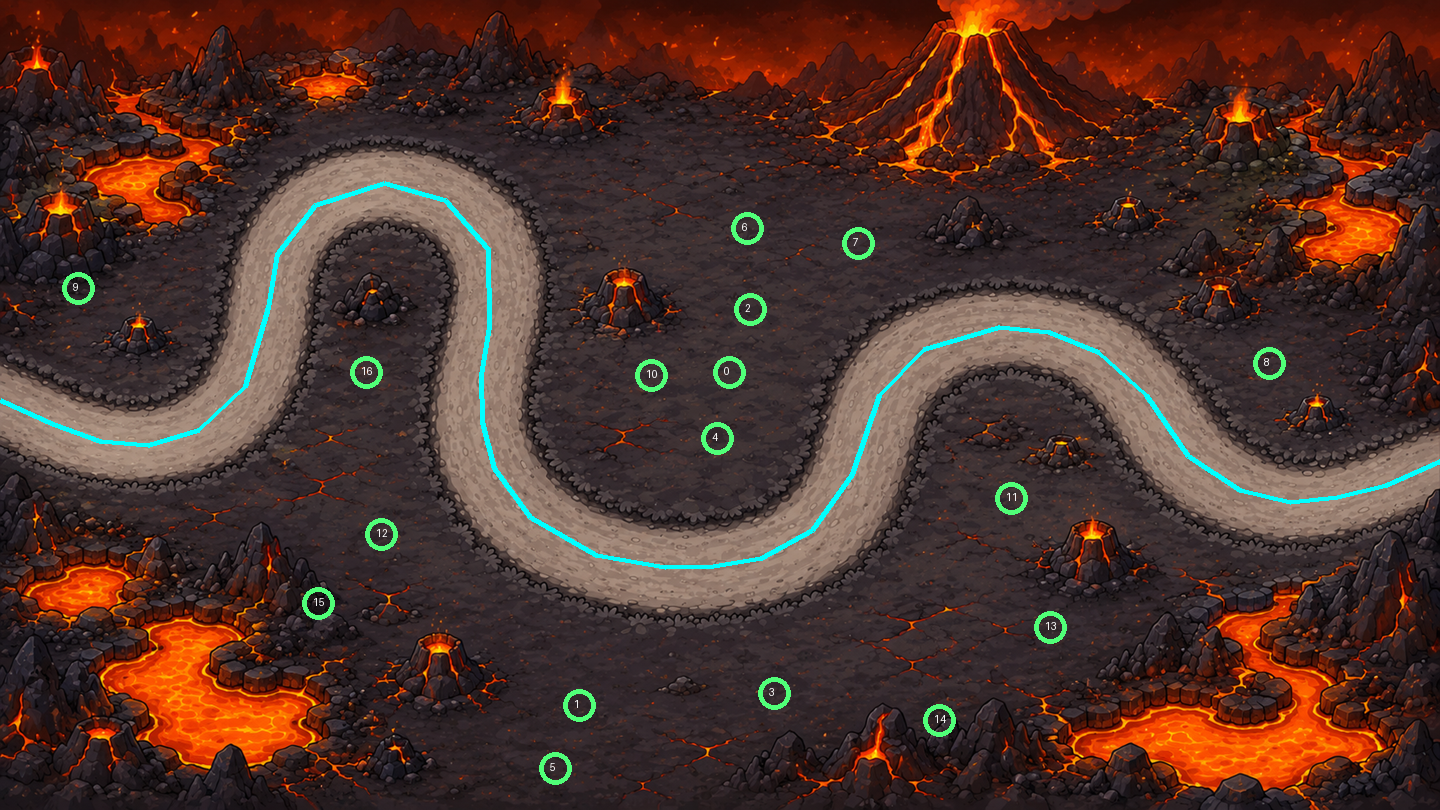
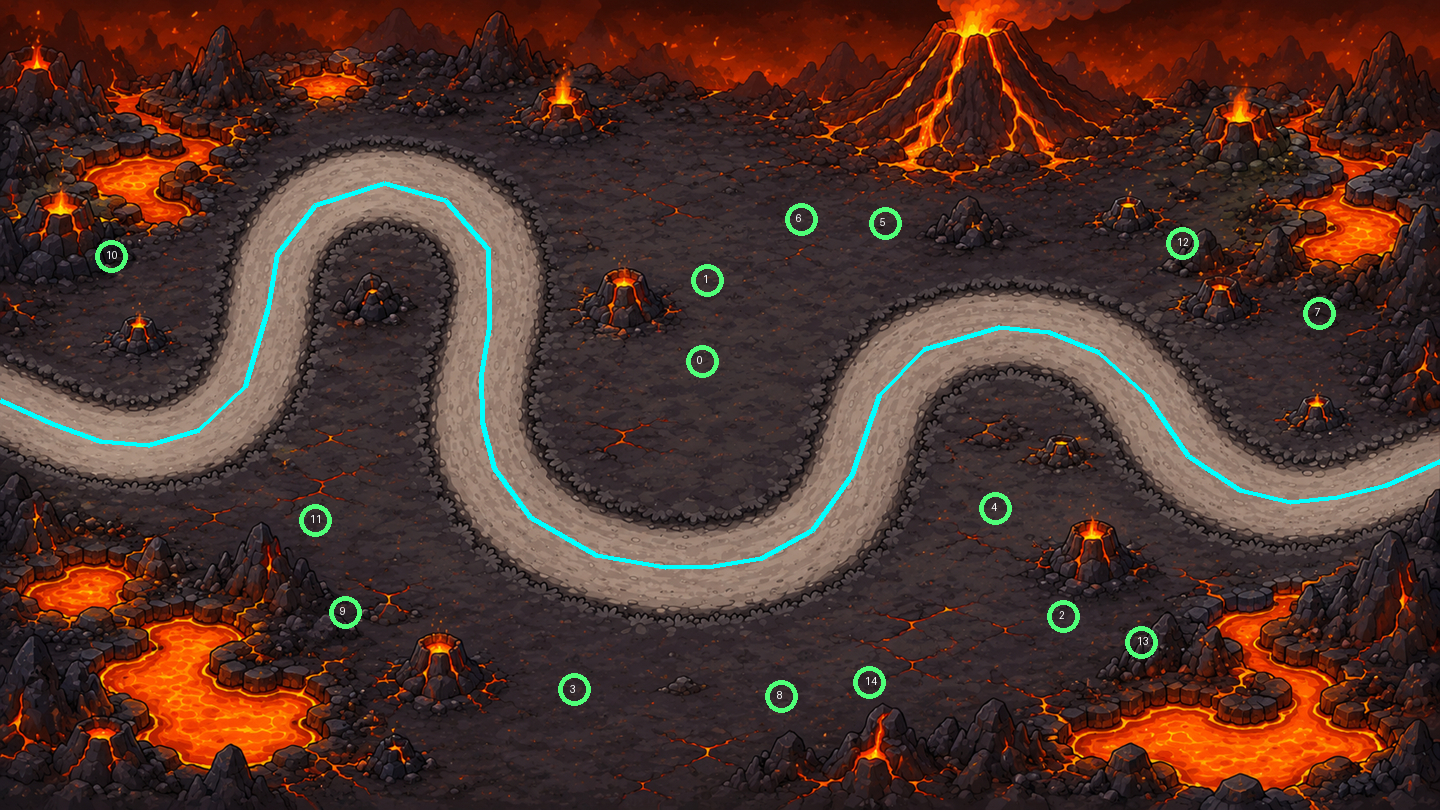
Move the level 2 pads onto the re-drawn rings, and hold the 68px tap floor
The overlay's fifteen pad rings moved. The old set was packed at a 59.0 px
minimum, below the 68 that two 34px tap radii need before they stop
overlapping: pads 2-5 at 59.0 and 5-7 at 59.6 were two pairs of tap targets a
thumb covers at once. The new set's closest pair is 4-6 at 72.1, clearing 68
by 4.1, and no pair is under it.

Only the pads moved. roadWidth stays 65.8 and the 49 waypoints are byte
identical to what they were — `--emit` against the new overlay reproduces both
exactly, so this is a pad change and nothing else. heroStart is untouched; its
recorded distance to the nearest pad moves 78.9 -> 84.5 because the pads moved
under it. check_level2.py now reports no disagreement at all.

spotRadius stays 34. Dropping it to 28 would also separate tight pads and is
the wrong end to adjust: world 1280 renders to 844 CSS px, so 34 is a 44.8px
tap diameter and 28 is 36.9, under the 44pt minimum. tests/level2.test.ts now
asserts the floor as 2 x spotRadius, read from JSON rather than hardcoded, so
a future overlay cannot reintroduce the overlap silently. The old assertion
only caught one pad sitting inside another and passed the 59px overlap.

The overlay rings exactly the fifteen spots it means now, where it used to ring
seventeen for fifteen pads, so the "carries no pad" line is gone and an
unmatched ring fails like any other disagreement.

Five pads — 2, 7, 10, 12 and 13 — stand on painted rock rather than open
[…]

diff --git a/tests/level2.test.ts b/tests/level2.test.ts
@@ -85,25 +85,34 @@ test('every level 2 pad is off the road, on the plate, and worth building on', (
     assert.ok(d > L2.roadWidth / 2, `pad ${i} is ${d.toFixed(1)}px from the lane centre; it is in the road`)
     assert.ok(d < reach, `pad ${i} is ${d.toFixed(1)}px from the lane and the longest range is ${reach}`)
   }
-  // THE PADS ON THIS PLATE ARE TIGHT, and the threshold says so honestly
-  // rather than pretending otherwise. Level 1's closest pair is 186px, set by
-  // a 141px minimum in the tracer so no two spots could cover the same bend.
-  // These are painted, and the painter spaced them by the ring drawn in the
-  // overlay — 15 world px across — not by the 34px tap radius the game gives
-  // a node. Two pairs land inside 2 x spotRadius: 2-5 at 59.0 and 5-7 at 59.6,
-  // with 5-6 clearing it by 1.3. That is a real problem for the day it is played,
-  // when two overlapping tap targets are one mis-tap, and it is a problem in
-  // the ART: it is fixed by moving a ring, not by editing this file. What is
-  // held here is the part that is not a judgement call — two pads may never
-  // be so close that one sits inside the other's ring.
+  // TWO PADS MAY NEVER SHARE A TAP TARGET. A node's tap radius is spotRadius,
+  // so two centres closer than 2 x spotRadius put a thumb over both at once —
+  // one mis-tap, every time, on the pad you did not mean. The first ring set
+  // was packed at a 59.0 px minimum against a 68 px requirement, and pads 2-5
+  // (59.0) and 5-7 (59.6) overlapped; the re-drawn overlay is packed at 72.1.
+  //
+  // THIS IS THE ASSERTION THAT KEEPS IT THAT WAY. The pads are painted, so the
+  // only thing standing between a re-export and the old overlap is this test.
+  // Note which end is fixed: 68 falls out of spotRadius, and spotRadius is 34
+  // because world 1280 renders to 844 CSS px, making it a 44.8 px tap diameter
+  // against the 44 pt minimum. Dropping it to 28 would buy room for tighter
+  // pads and land at 36.9 px, under that minimum. If this fails, move the ring
+  // in the overlay and re-derive — do not shrink the radius to fit the art.
+  const floor = 2 * L2.spotRadius
+  let closest = Infinity
   for (let i = 0; i < spots.length; i++) {
     for (let j = i + 1; j < spots.length; j++) {
       const [ax, ay] = spots[i] as [number, number]
       const [bx, by] = spots[j] as [number, number]
       const d = Math.hypot(bx - ax, by - ay)
-      assert.ok(d > L2.spotRadius, `pads ${i} and ${j} are ${d.toFixed(1)}px apart; one is inside the other`)
+      closest = Math.min(closest, d)
+      assert.ok(d > floor,
+        `pads ${i} and ${j} are ${d.toFixed(1)}px apart; their ${L2.spotRadius}px tap ` +
+        `targets overlap, which needs ${floor}px. Move a ring in the overlay and ` +
+        're-derive with tools/check_level2.py --emit.')
     }
   }
+  assert.ok(closest > floor, `closest pair is ${closest.toFixed(1)}px, under the ${floor}px floor`)
 })
 
 /**

diff --git a/tools/check_level2.py b/tools/check_level2.py
@@ -24,10 +24,18 @@ therefore left in git history.
 Nothing at runtime depends on this. It is the record of where map_level2.json
 came from, and how to redo it when the art changes.
 
-WHICH MARKERS BECOME PADS IS A DESIGN DECISION. The overlay rings seventeen
-spots and the map uses fifteen. An unused ring is reported and never fails the
-run: a script cannot know whether a spot was dropped on purpose, and a check
-that failed on it would be a check somebody silences.
+ONE RING, ONE PAD. The overlay used to ring seventeen spots for fifteen pads,
+and the two leftovers were printed on every run and never failed it, because a
+script cannot know whether a spot was dropped on purpose. The re-drawn overlay
+rings exactly the fifteen it means, so there is nothing left to excuse: a ring
+with no pad is now an ordinary disagreement and fails like the rest.
+
+CHECK THE OVERLAY IS THE RIGHT ONE FIRST. The correct file has 9641 pixels
+matching R<60 G>200 B>200. A superseded export went round with its cyan stroke
+one pixel thinner (7623), and since the road's half-width is a median of
+integer distances sampled along that stroke, it moved roadWidth 65.8 -> 67.6
+and the waypoint count 49 -> 47 without the painted route having moved at all.
+Nothing in the output flags that; the numbers just come out different.
 """
 
 import argparse
@@ -429,11 +437,10 @@ def main():
             break
         print(f'  pads {i} and {j} are {d:.1f} px apart; their {data["spotRadius"]}px '
               f'tap rings overlap')
-    # PRINTED, NEVER FAILED. Dropping a marked spot is a design decision and
-    # the overlay cannot record one; see the note at the top of this file.
+    # FAILED, NOT PRINTED. Every ring the painter drew is a pad; see the note at
+    # the top of this file for why this stopped being a judgement call.
     for x, y in sorted(left):
-        print(f'  ring at {x / w:.3f},{y / h:.3f} (canvas {x * scale:.1f}, {y * scale:.1f}) '
-              f'carries no pad')
+        bad.append(f'the ring at canvas ({x * scale:.1f}, {y * scale:.1f}) carries no pad')
 
     # 4. The hero stands somewhere he can actually stand.
     hx, hy = data['heroStart']
